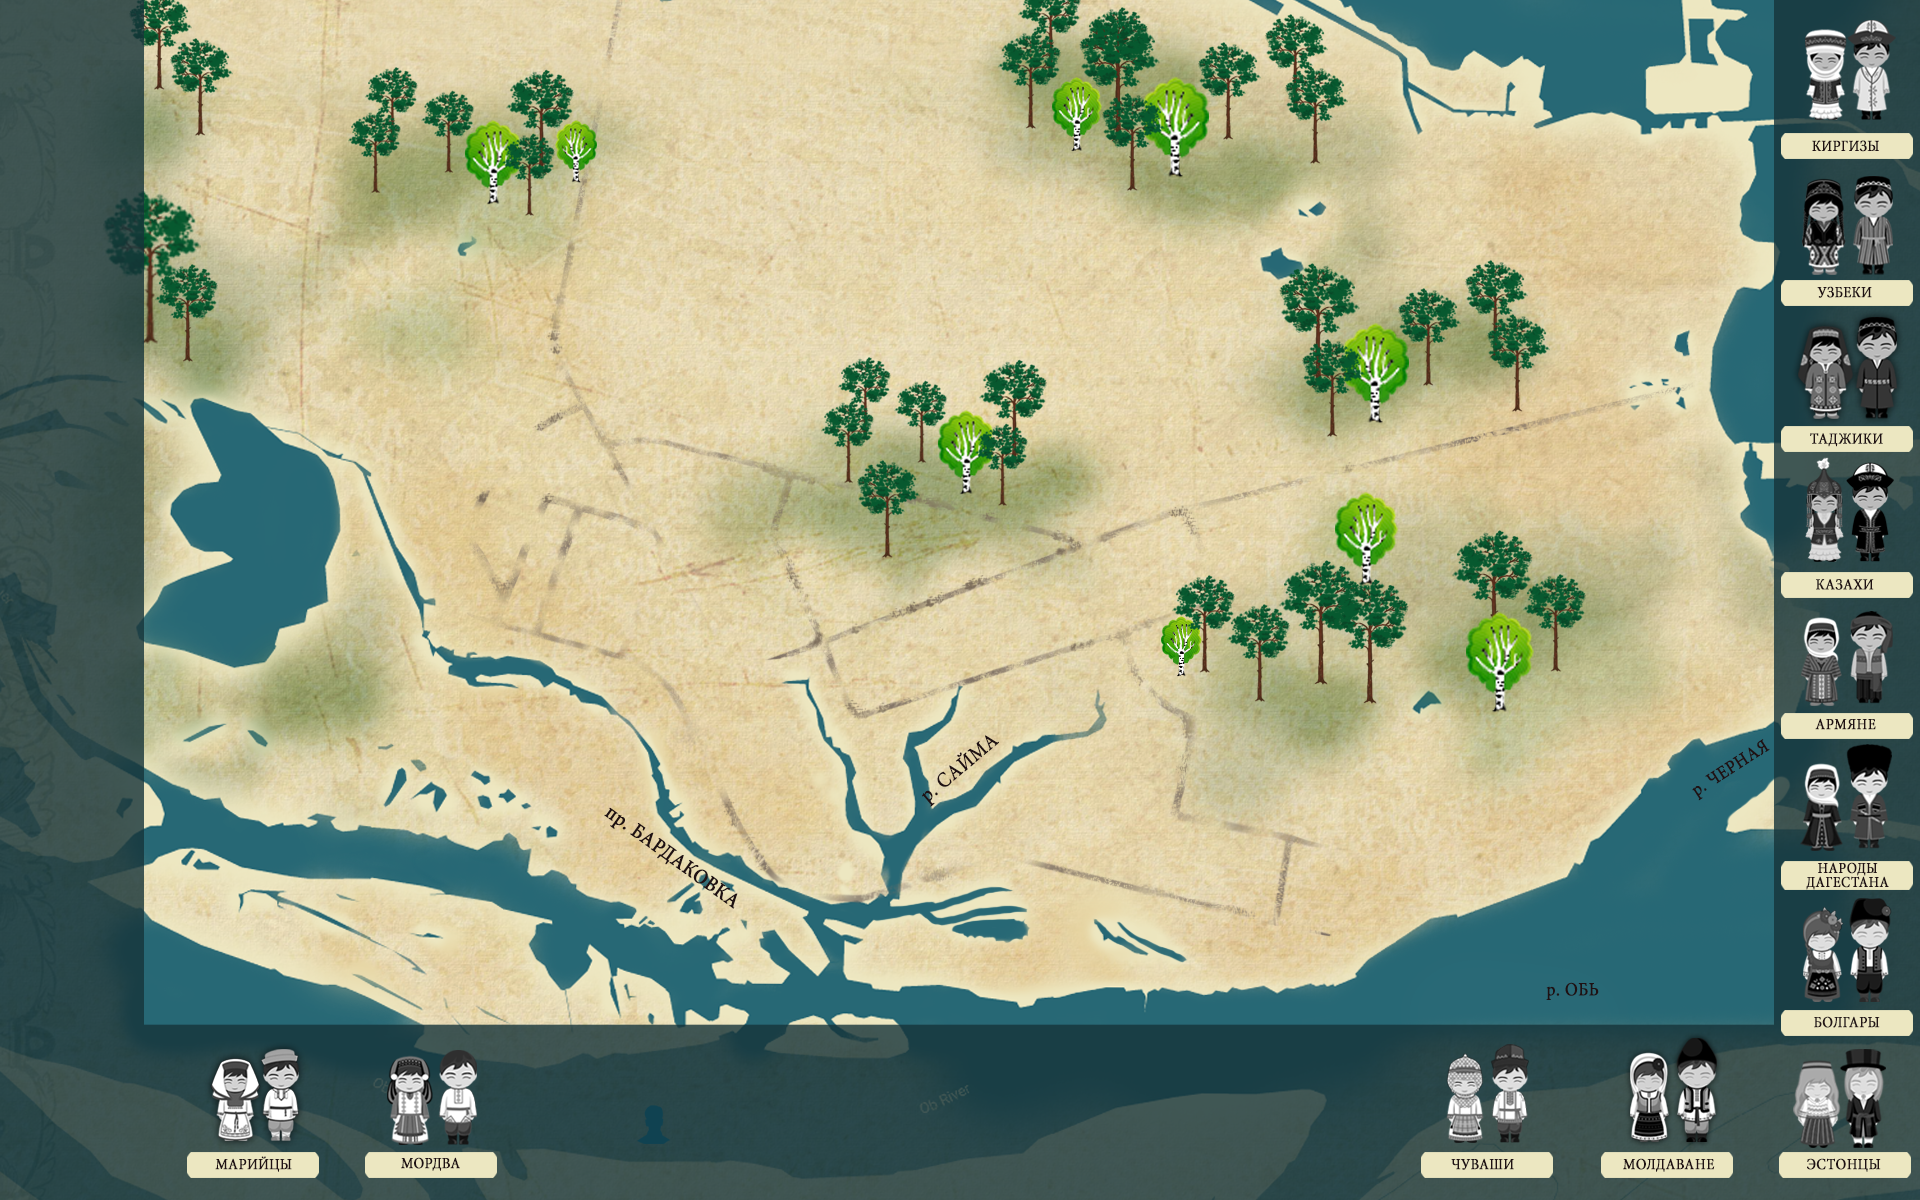
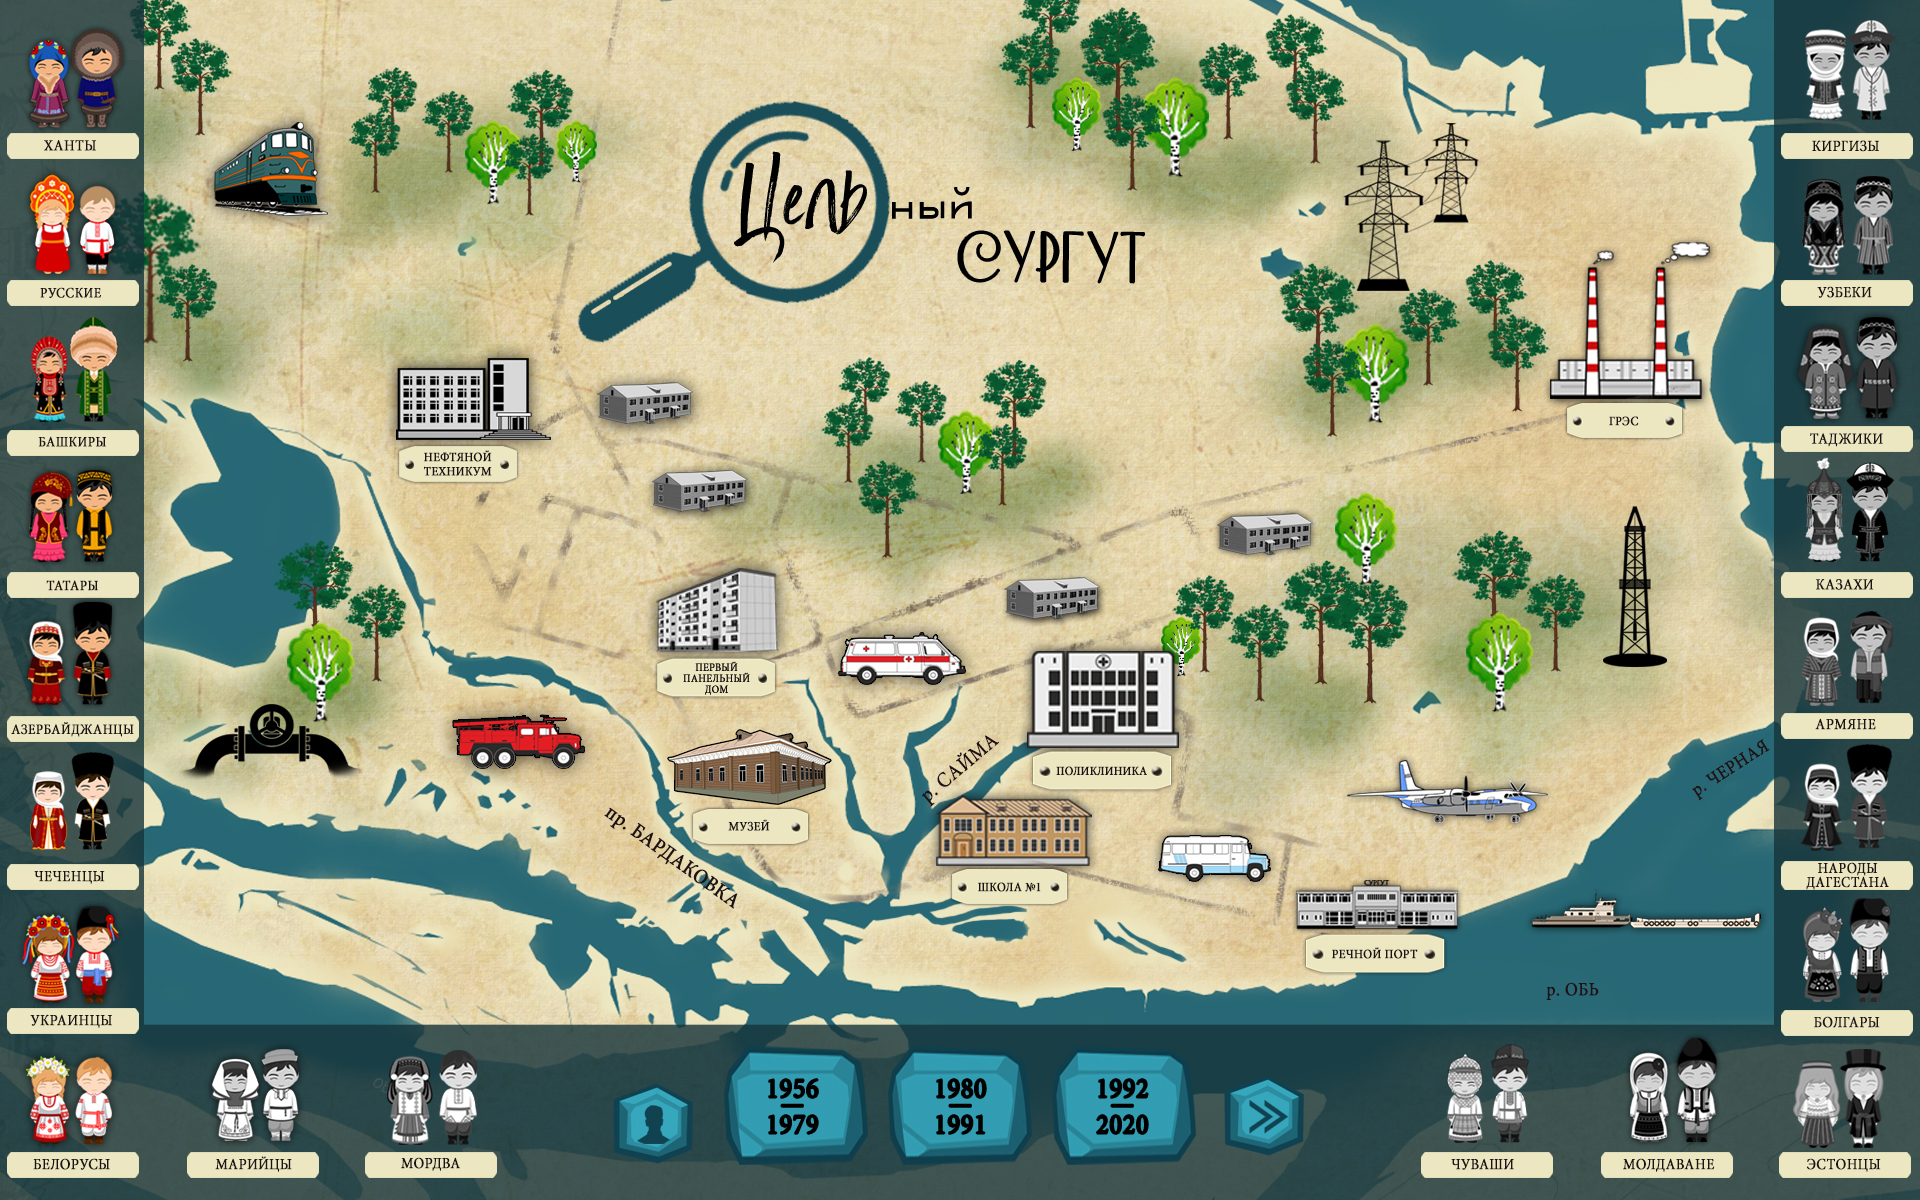
Добавлены Русские Украинцы Татары

diff --git a/App/html/style.css b/App/html/style.css
@@ -2761,11 +2761,11 @@ body {
 
 .rus_5679 {
 	position: absolute;
-	left: 2%;
-	top: 9%;
-	width: 96px;
-	height: 25px;
-	background-image: url(img/icons/рус_слово.png);
+	left: 7px;
+	top: 280px;
+	width: 132px;
+	height: 26px;
+	background-image: url(img/icons/cel_surgut/nations/русские_табличка.png);
 	background-size: 100%;
 	background-repeat: no-repeat;
 	/*animation: golding 3s ease infinite;*/
@@ -2774,19 +2774,19 @@ body {
 	z-index: 1;
 	/*border: 1px solid red;*/
 	--form-top: 100px;
-	--form-left: 125px;
+	--form-left: 140px;
 	--form-header-text: 'Русские 56-79';
-	--form-descr-text: '';
-	--form-urls: url(img/icons/рус_слово.png);
+	--form-descr-text: 'Русские – титульный народ Российской Федерации. Составляет 80% населения страны. Это самый многочисленный славянский народ и самый крупный в Европе - около 133 мил. человек. В России проживает 111 миллионов. Из всех русских в мире 86 % живёт в России, 11,5 % в странах бывшего СССР и 2,5 % в остальных странах. В Сургуте - 197 876 человек русские (по данным переписи населения 2010 г.). Русский язык вместе с украинским и белорусским образует группу восточных славян в составе славянской группы индоевропейской языковой семьи. Традиционной религией является православное христианство.';
+	--form-urls: url(img/icons/cel_surgut/nations/русские_табличка.png);
 }
 
 .rusm_5679 {
 	position: absolute;
-	left: 2%;
-	top: 1%;
-	width: 42px;
-	height: 94px;
-	background-image: url(img/icons/рус_муж.png);
+	left: 73px;
+	top: 178px;
+	width: 51px;
+	height: 104px;
+	background-image: url(img/icons/cel_surgut/nations/русские_м.png);
 	background-size: 100%;
 	background-repeat: no-repeat;
 	/*animation: golding 3s ease infinite;*/
@@ -2795,19 +2795,19 @@ body {
 	z-index: 1;
 	/*border: 1px solid red;*/
 	--form-top: 10px;
-	--form-left: 20px;
+	--form-left: 140px;
 	--form-header-text: 'Русские муж';
-	--form-descr-text: 'Русский парень от пуль не бежит, Русский парень от боли не стонет, Русский парень в огне не горит, Русский парень в воде не тонет.';
-	--form-urls: url(img/icons/рус_слово.png);
+	--form-descr-text: 'Основными традиционными занятиями русских являлось земледелие и животноводство. Главным направлением было возделывание зерновых культур. Из скота держали в основном коров, лошадей, овец, коз, а также свиней и домашнюю птицу. Наряду с сельским хозяйством русские занимались охотой, рыболовством и собирательством. Традиционные ремесла включали в себя кузнечное, ювелирное, оружейное, гончарное дело, обработку древесины, кож и меха, косторезное искусство и резьбу по дереву, ткачество, стеклоделие, художественные промыслы. Основными деталями мужского национального костюма являются рубаха, штаны, пояс, лапти. Классическим видом русской рубашки считается косоворотка. В русском костюме присутствует большое разнообразие головных уборов.';
+	--form-urls: url(img/icons/cel_surgut/nations/русские_м.png);
 }
 
 .rusw_5679 {
 	position: absolute;
-	left: 5%;
-	top: 0%;
-	width: 49px;
-	height: 106px;
-	background-image: url(img/icons/рус_жен.png);
+	left: 21px;
+	top: 166px;
+	width: 57px;
+	height: 116px;
+	background-image: url(img/icons/cel_surgut/nations/русские_ж.png);
 	background-size: 100%;
 	background-repeat: no-repeat;
 	/*animation: golding 3s ease infinite;*/
@@ -2816,19 +2816,19 @@ body {
 	z-index: 1;
 	/*border: 1px solid red;*/
 	--form-top: 100px;
-	--form-left: 125px;
+	--form-left: 140px;
 	--form-header-text: 'Русские жен';
-	--form-descr-text: 'Есть женщины в русских селеньях С спокойною важностью лиц, С красивою силой в движеньях, С походкой, со взглядом цариц,-  х разве слепой не заметит, А зрячий о них говорит: «Пройдет — словно солнце осветит! Посмотрит — рублем подарит!»';
-	--form-urls: url(img/icons/рус_слово.png);
+	--form-descr-text: 'Русская народная одежда различалась по назначению: будничная, праздничная, свадебная, траурная. Отличительная особенность русского национального костюма — большое количество верхней одежды. Символическим женским головным убором является кокошник. Также на голове носили платки, волосники, повязки, шапки с высокими тульями. Русское гостеприимство - неотъемлемая часть культурных традиций. Гостей всегда встречали хлебом и солью. Особенностью традиционной русской кухни является разнообразие горячих супов и каш, квашений, мочений и солений, грибных блюд и дичи. Важнее значение до настоящего времени играет хлеб, пироги, блины.';
+	--form-urls: url(img/icons/cel_surgut/nations/русские_ж.png);
 }
 
 .ukr_5679 {
 	position: absolute;
-	left: 2%;
-	top: 250px;
-	width: 96px;
-	height: 25px;
-	background-image: url(img/icons/рус_слово.png);
+	left: 7px;
+	top: 1008px;
+	width: 132px;
+	height: 26px;
+	background-image: url(img/icons/cel_surgut/nations/украинцы_табличка.png);
 	background-size: 100%;
 	background-repeat: no-repeat;
 	/*animation: golding 3s ease infinite;*/
@@ -2836,20 +2836,20 @@ body {
 	/*cursor: none;*/
 	z-index: 1;
 	/*border: 1px solid red;*/
-	--form-top: 100px;
-	--form-left: 125px;
+	--form-top: 300px;
+	--form-left: 140px;
 	--form-header-text: 'Украинцы 56-79';
-	--form-descr-text: '';
-	--form-urls: url(img/icons/рус_слово.png);
+	--form-descr-text: 'Пойду я в охородик, наimмся червячкiв';
+	--form-urls: url(img/icons/cel_surgut/nations/украинцы_табличка.png);
 }
 
 .ukrm_5679 {
 	position: absolute;
-	left: 2%;
-	top: 13%;
-	width: 42px;
-	height: 94px;
-	background-image: url(img/icons/рус_муж.png);
+	left: 68px;
+	top: 900px;
+	width: 57px;
+	height: 111px;
+	background-image: url(img/icons/cel_surgut/nations/украинцы_м.png);
 	background-size: 100%;
 	background-repeat: no-repeat;
 	/*animation: golding 3s ease infinite;*/
@@ -2857,20 +2857,20 @@ body {
 	/*cursor: none;*/
 	z-index: 1;
 	/*border: 1px solid red;*/
-	--form-top: 10px;
-	--form-left: 20px;
+	--form-top: 300px;
+	--form-left: 140px;
 	--form-header-text: 'Хлопцы';
 	--form-descr-text: 'Парень молодой. Весь такой крутой.';
-	--form-urls: url(img/icons/рус_слово.png);
+	--form-urls: url(img/icons/cel_surgut/nations/украинцы_м.png);
 }
 
 .ukrw_5679 {
 	position: absolute;
-	left: 5%;
-	top: 12%;
-	width: 49px;
-	height: 106px;
-	background-image: url(img/icons/рус_жен.png);
+	left: 15px;
+	top: 907px;
+	width: 66px;
+	height: 103px;
+	background-image: url(img/icons/cel_surgut/nations/украинцы_ж.png);
 	background-size: 100%;
 	background-repeat: no-repeat;
 	/*animation: golding 3s ease infinite;*/
@@ -2878,20 +2878,20 @@ body {
 	/*cursor: none;*/
 	z-index: 1;
 	/*border: 1px solid red;*/
-	--form-top: 100px;
-	--form-left: 125px;
+	--form-top: 300px;
+	--form-left: 140px;
 	--form-header-text: 'Дивчины';
 	--form-descr-text: 'Хгарна дiвчина';
-	--form-urls: url(img/icons/рус_слово.png);
+	--form-urls: url(img/icons/cel_surgut/nations/украинцы_ж.png);
 }
 
 .tat_5679 {
 	position: absolute;
-	left: 2%;
-	top: 33%;
-	width: 96px;
-	height: 25px;
-	background-image: url(img/icons/рус_слово.png);
+	left: 7px;
+	top: 572px;
+	width: 132px;
+	height: 26px;
+	background-image: url(img/icons/cel_surgut/nations/татары_табличка.png);
 	background-size: 100%;
 	background-repeat: no-repeat;
 	/*animation: golding 3s ease infinite;*/
@@ -2900,19 +2900,19 @@ body {
 	z-index: 1;
 	/*border: 1px solid red;*/
 	--form-top: 100px;
-	--form-left: 125px;
-	--form-header-text: 'Татары 56-79';
-	--form-descr-text: '';
-	--form-urls: url(img/icons/рус_слово.png);
+	--form-left: 140px;
+	--form-header-text: 'Татары';
+	--form-descr-text: 'Казань';
+	--form-urls: url(img/icons/cel_surgut/nations/татары_табличка.png);
 }
 
 .tatm_5679 {
 	position: absolute;
-	left: 2%;
-	top: 25%;
-	width: 42px;
-	height: 94px;
-	background-image: url(img/icons/рус_муж.png);
+	left: 68px;
+	top: 464px;
+	width: 50px;
+	height: 104px;
+	background-image: url(img/icons/cel_surgut/nations/татары_м.png);
 	background-size: 100%;
 	background-repeat: no-repeat;
 	/*animation: golding 3s ease infinite;*/
@@ -2921,19 +2921,19 @@ body {
 	z-index: 1;
 	/*border: 1px solid red;*/
 	--form-top: 10px;
-	--form-left: 20px;
+	--form-left: 140px;
 	--form-header-text: 'Егет';
-	--form-descr-text: 'Парень молодой. Весь такой крутой.';
-	/*--form-urls: url(img/icons/рус_слово.png);*/
+	--form-descr-text: 'Егет';
+	--form-urls: url(img/icons/cel_surgut/nations/татары_м.png);
 }
 
 .tatw_5679 {
 	position: absolute;
-	left: 5%;
-	top: 24%;
-	width: 49px;
-	height: 106px;
-	background-image: url(img/icons/рус_жен.png);
+	left: 23px;
+	top: 468px;
+	width: 53px;
+	height: 101px;
+	background-image: url(img/icons/cel_surgut/nations/татары_ж.png);
 	background-size: 100%;
 	background-repeat: no-repeat;
 	/*animation: golding 3s ease infinite;*/
@@ -2942,10 +2942,10 @@ body {
 	z-index: 1;
 	/*border: 1px solid red;*/
 	--form-top: 100px;
-	--form-left: 125px;
+	--form-left: 140px;
 	--form-header-text: 'Кыз';
-	--form-descr-text: 'Хгарна дiвчина';
-	--form-urls: url(img/icons/рус_слово.png);
+	--form-descr-text: 'Кыз';
+	--form-urls: url(img/icons/cel_surgut/nations/татары_ж.png);
 }
 
 /*#endregion*/

diff --git a/App/html/script.js b/App/html/script.js
@@ -116,7 +116,7 @@ let inner_text = document.createElement('div');
 	
 
 	//ВРЕМЕННО, перейти на нужную вкладку
-	/*
+	
 	//скрыть черное окно
 	tabBlackClick();
 	//нажать на кнопку
@@ -124,7 +124,7 @@ let inner_text = document.createElement('div');
 	var evt = new Event('click');
 	btn.dispatchEvent(evt); // evt.target = btn;
 	menuButtonClick(evt);
-	*/
+	
 
 }());
 
